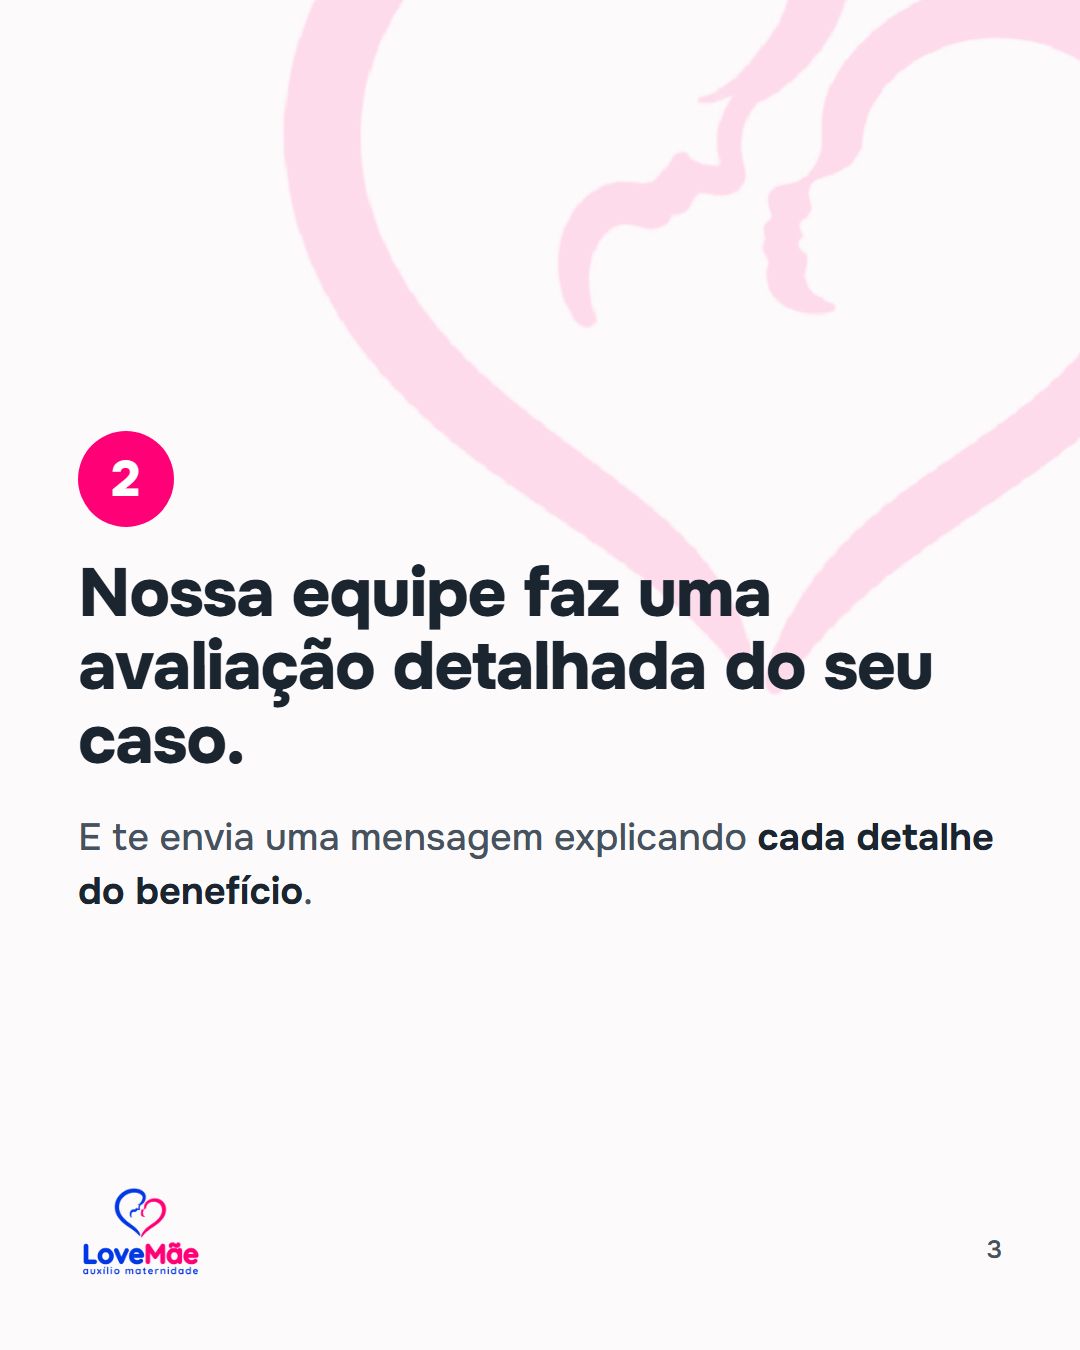
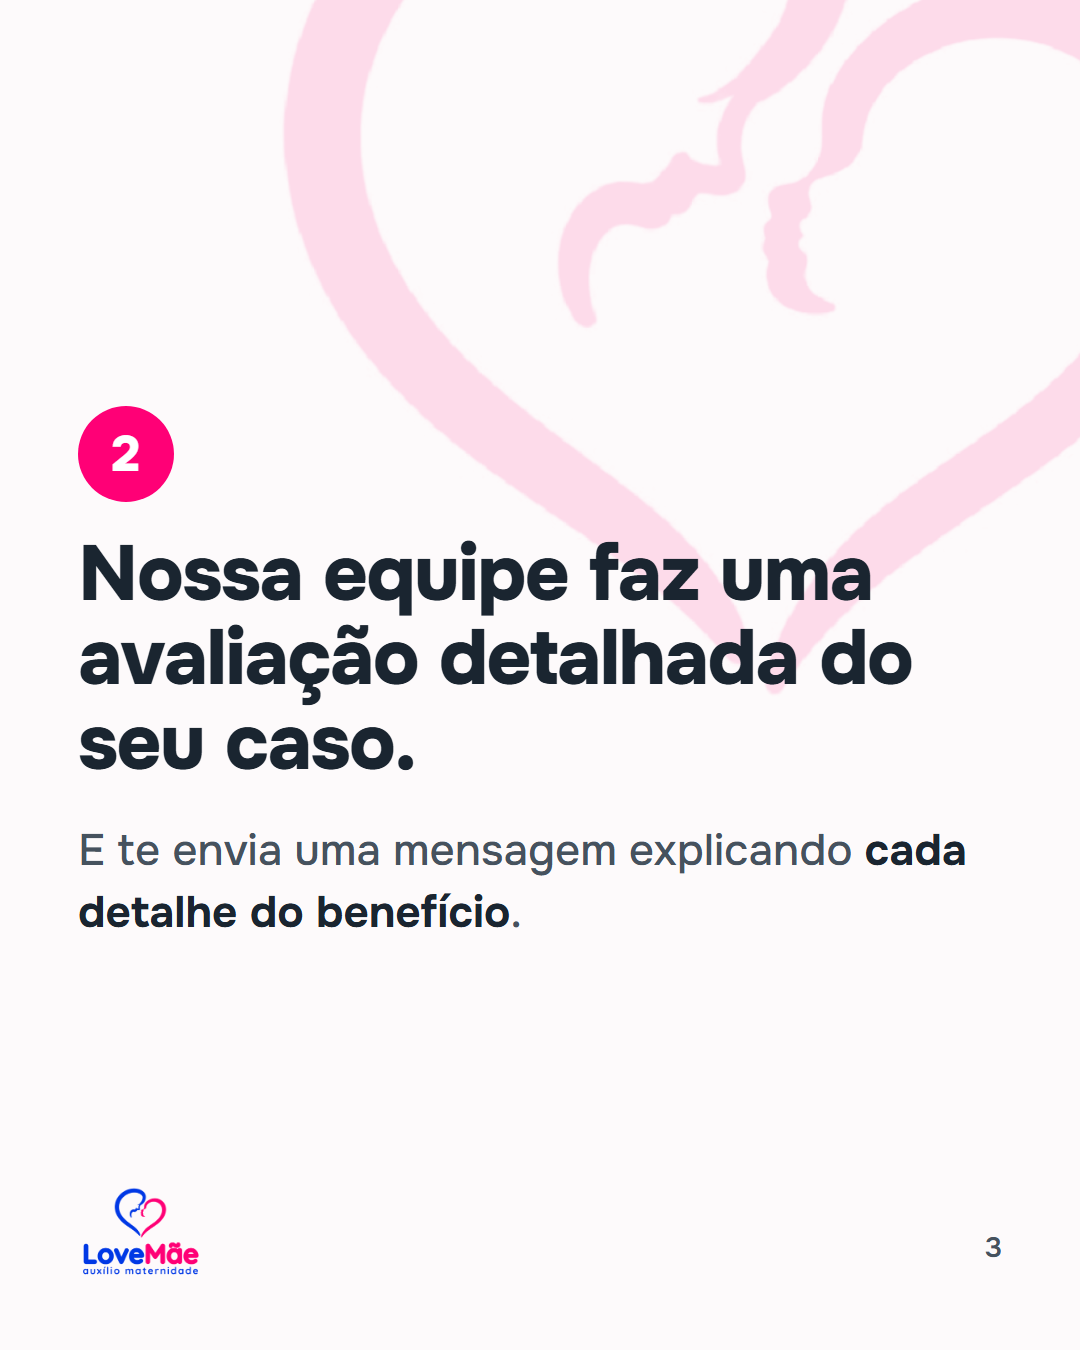
carrosséis: textos maiores e slide de abertura em "Quem tem direito"

Changed region(s): [[0.0611, 0.28, 0.9167, 0.6844], [0.9167, 0.9022, 0.9472, 0.9333]]

diff --git a/marketing/conteudo/carrossel-quem-tem-direito-2026-09-17/legenda.md b/marketing/conteudo/carrossel-quem-tem-direito-2026-09-17/legenda.md
@@ -1,11 +1,15 @@
 # Carrossel 2 da trilogia — "Será que eu tenho direito?"
 
 Produzido em 17/09/2026. Post **fixado** no topo do perfil (o do meio).
-5 slides, 1080×1350. Capa **branca** (decisão de 22/09/2026).
+6 slides, 1080×1350. Capa **branca** (decisão de 22/09/2026).
 
 ⚠ **Antes de publicar:** o time de operação precisa conferir as regras citadas —
 carência de 10 meses para MEI/autônoma, segurada especial rural, período de graça
 (12 e 36 meses) e o prazo de 4 anos e 11 meses.
+
+Slide de abertura sobre "o que é o benefício" acrescentado em 29/09/2026: com o
+carrossel "O que é o auxílio-maternidade?" saindo dos fixados, este passa a carregar
+essa função sozinho.
 
 ## Legenda
 
@@ -53,10 +57,11 @@ Não achou o seu caso? A gente confere pra você, de graça e em 2 minutos 💗
 | Slide | Arquivo |
 |---|---|
 | 1 (capa) | `slide-1.png` |
-| 2 — carteira assinada + MEI/autônoma | `slide-2.png` |
-| 3 — doméstica e rural, mães menores de idade e perda gestacional | `slide-3.png` |
-| 4 — desempregada + prazo de 4 anos e 11 meses | `slide-4.png` |
-| 5 — CTA | `slide-5.png` |
+| 2 — o que é o benefício | `slide-2.png` |
+| 3 — carteira assinada + MEI/autônoma | `slide-3.png` |
+| 4 — doméstica e rural, mães menores de idade e perda gestacional | `slide-4.png` |
+| 5 — desempregada + prazo de 4 anos e 11 meses | `slide-5.png` |
+| 6 — CTA | `slide-6.png` |
 
 Regerar: `NODE_PATH=../../../identidade/propostas/node_modules node gerar.cjs`
 Estilo compartilhado: `../estilo-carrossel.cjs`
